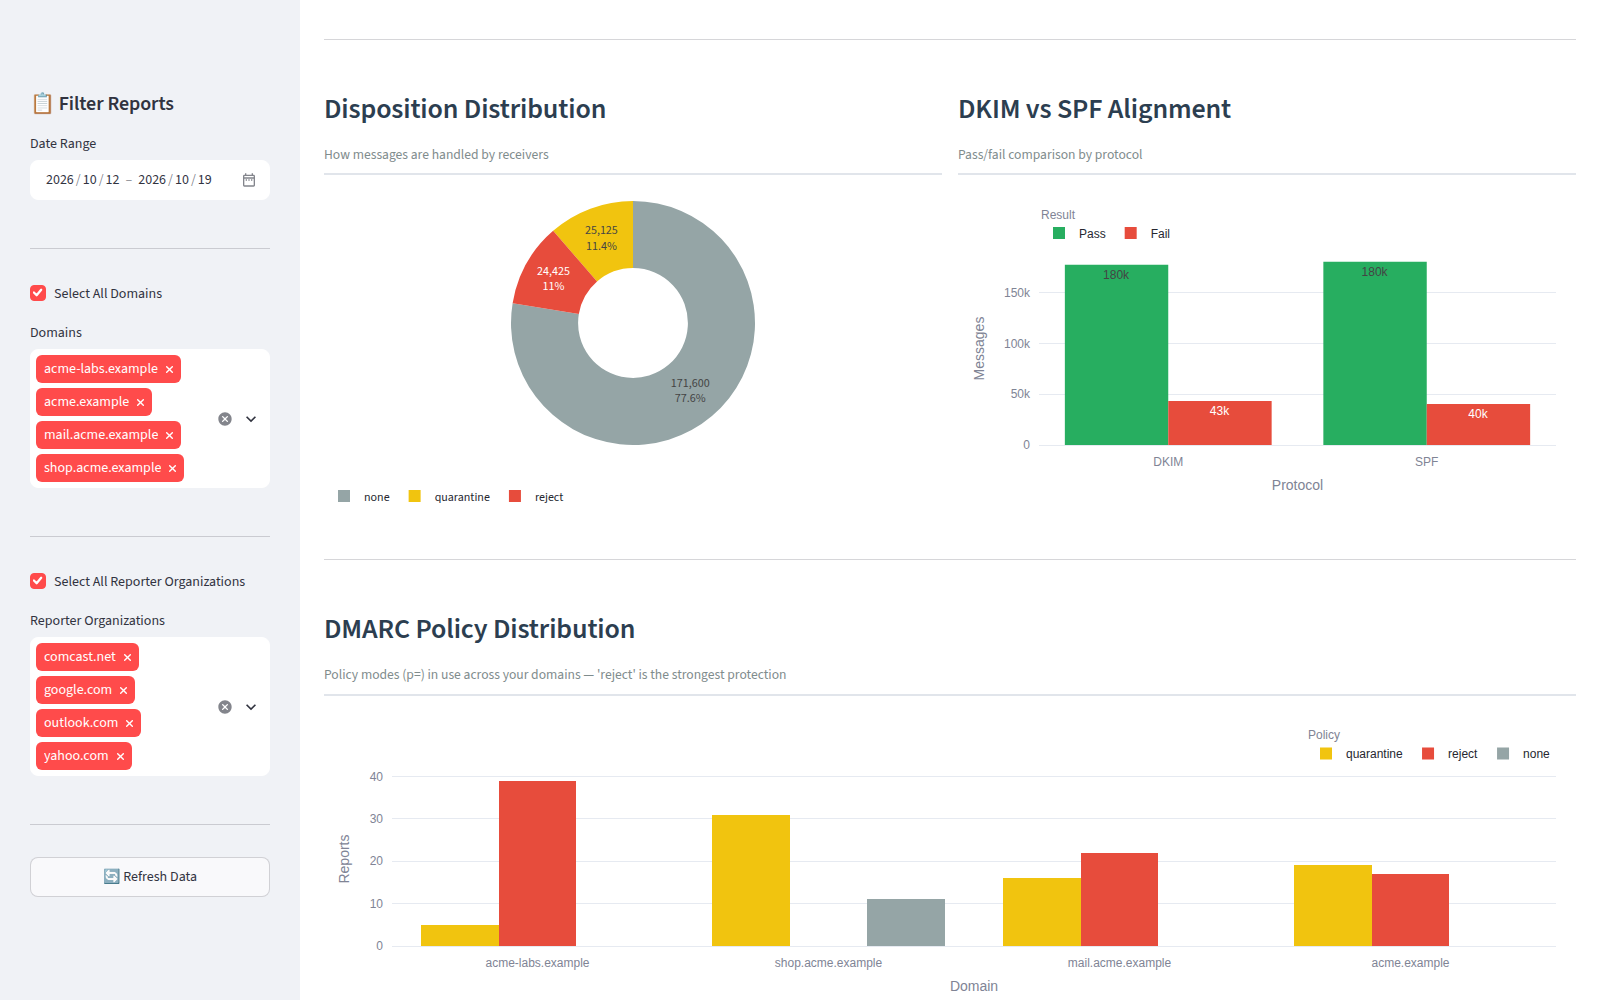
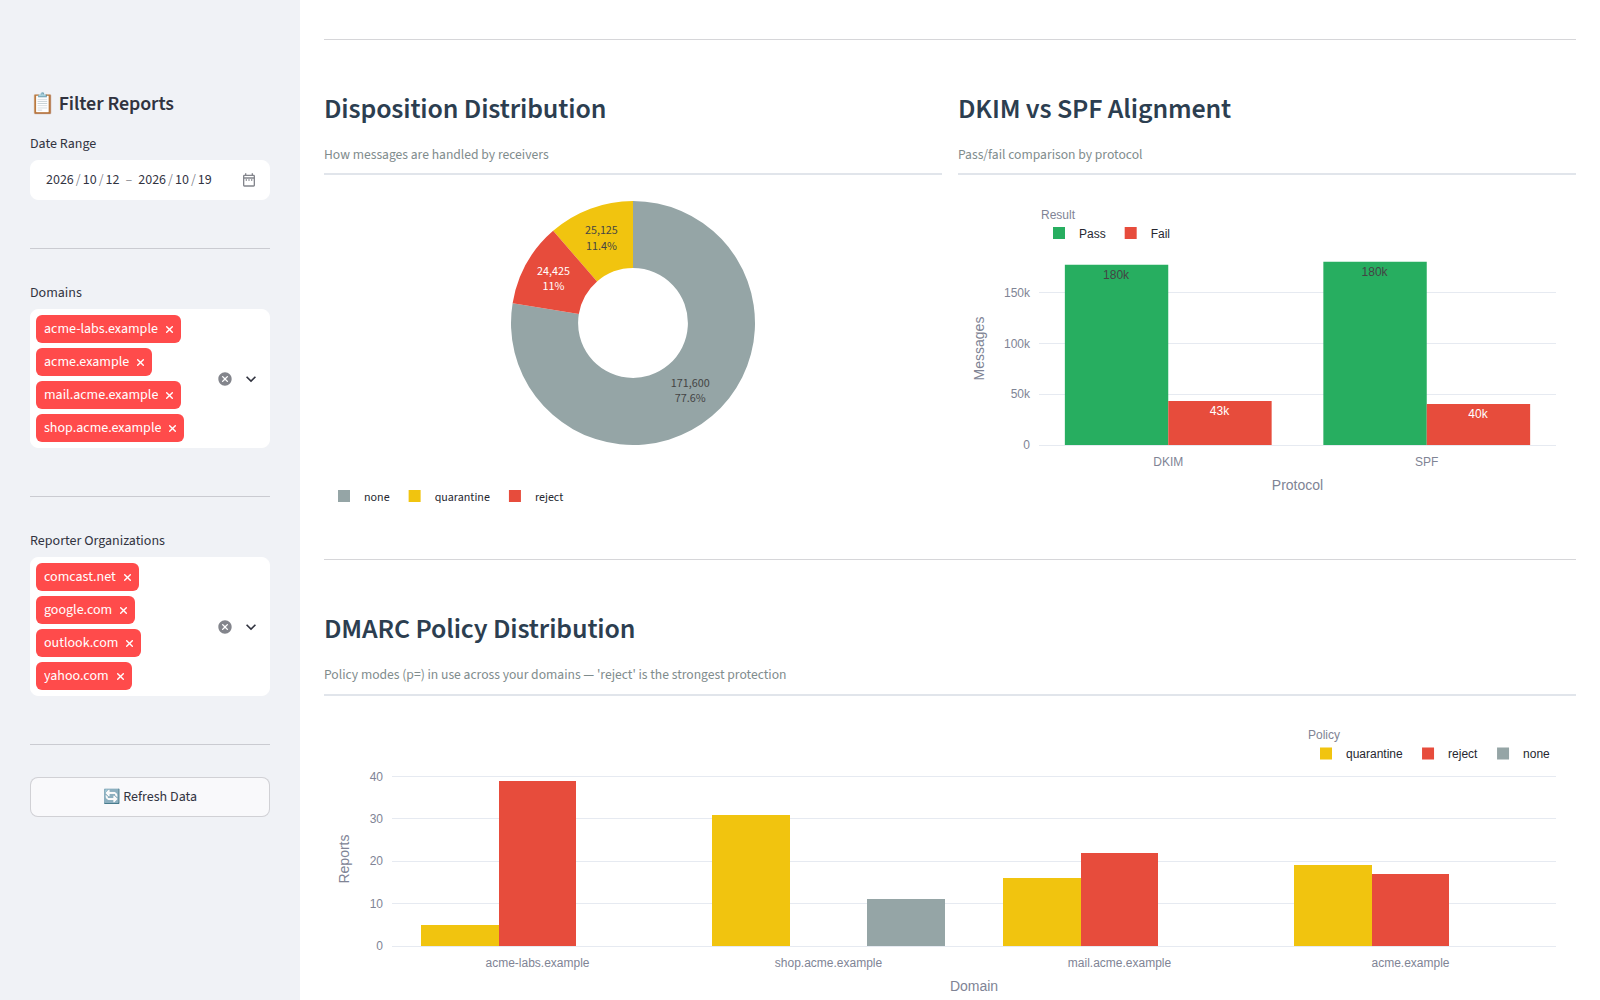
refactor(dashboard): simplify sidebar domain and organization selection
- Remove "Select All Domains" checkbox and default the Domains multiselect to all available domains
- Remove "Select All Reporter Organizations" checkbox and default the organizations multiselect to all available organizations
- Drop obsolete `dash_domains`/`dash_orgs` session-state initialization now that selections are fully driven by the widget keys
- Refresh dashboard screenshots (domains, overview, reports, sources) to match the updated sidebar

Changed region(s): [[0.0, 0.527, 0.1562, 0.806], [0.0, 0.279, 0.125, 0.496], [0.0625, 0.868, 0.125, 0.899]]

diff --git a/app/dashboard/main.py b/app/dashboard/main.py
@@ -140,14 +140,10 @@ def _render_sidebar():
     # ── Domains ──
     st.sidebar.divider()
 
-    if "dash_domains" not in st.session_state:
-        st.session_state["dash_domains"] = available_domains
-
-    selected_domains_all = st.sidebar.checkbox("Select All Domains", value=True)
     selected_domains = st.sidebar.multiselect(
         "Domains",
         available_domains,
-        default=available_domains if selected_domains_all else st.session_state.get("dash_domains", []),
+        default=available_domains,
         key="sidebar_domains",
     )
     st.session_state["dash_domains"] = selected_domains
@@ -155,14 +151,10 @@ def _render_sidebar():
     # ── Organizations ──
     st.sidebar.divider()
 
-    if "dash_orgs" not in st.session_state:
-        st.session_state["dash_orgs"] = available_orgs
-
-    selected_orgs_all = st.sidebar.checkbox("Select All Reporter Organizations", value=True)
     selected_orgs = st.sidebar.multiselect(
         "Reporter Organizations",
         available_orgs,
-        default=available_orgs if selected_orgs_all else st.session_state.get("dash_orgs", []),
+        default=available_orgs,
         key="sidebar_orgs",
     )
     st.session_state["dash_orgs"] = selected_orgs
